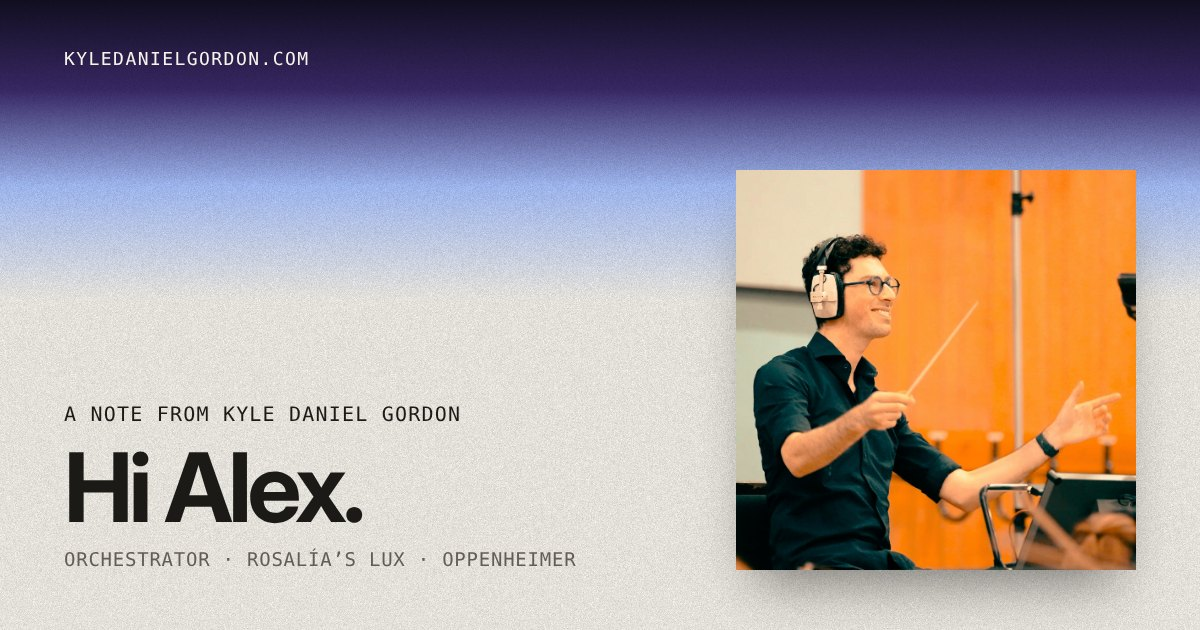
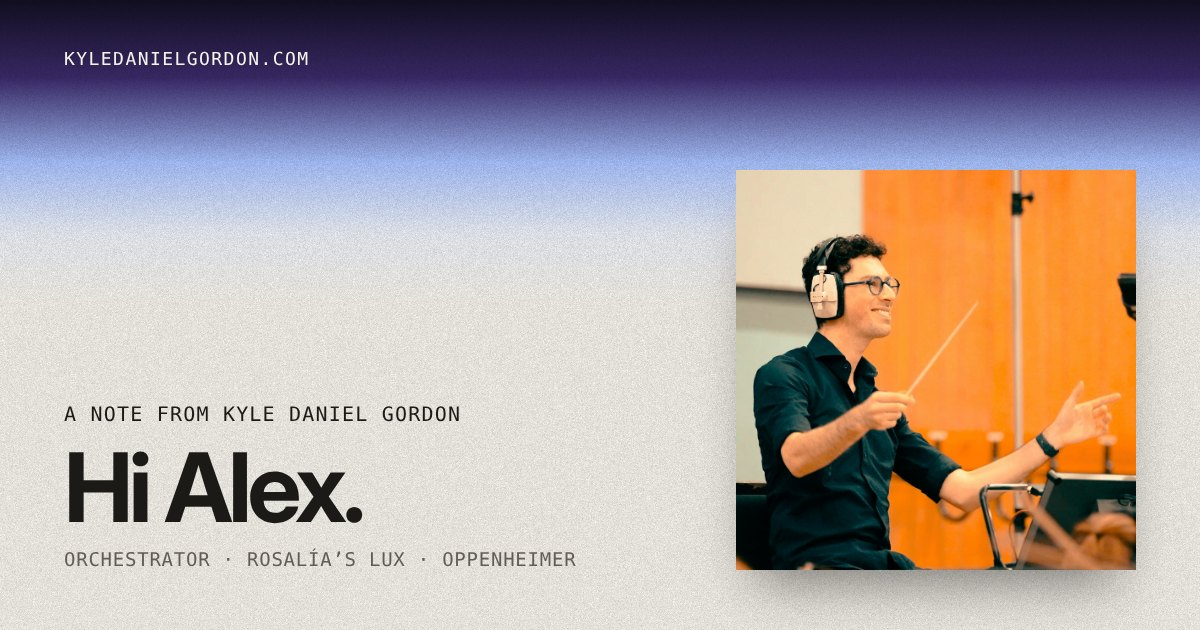
Share cards always match their page: gradients read from each page's header (og_grads.json), cards redrawn on every build, new cards for press, es/prensa, contact, LA, guide, privacy, es/rosalia-lux
Claude-Session: https://claude.ai/code/session_01J4kEb8i43ScNqshKGYvctF

Claude-Session: https://claude.ai/code/session_01J4kEb8i43ScNqshKGYvctF

Changed region(s): [[0.0, 0.1508, 1.0, 0.4222]]

diff --git a/public/what-does-an-orchestrator-do/index.html b/public/what-does-an-orchestrator-do/index.html
@@ -27,11 +27,11 @@
 <meta content="What Does an Orchestrator Do? A Guide by Kyle Daniel Gordon" property="og:title"/>
 <meta content="What an orchestrator does on a film score and a pop record, how it differs from arranging and composing, and how to hire one. By orchestrator Kyle Daniel Gordon." property="og:description"/>
 <meta content="https://www.kyledanielgordon.com/what-does-an-orchestrator-do/" property="og:url"/>
-<meta content="https://www.kyledanielgordon.com/img/share-home-kyle-daniel-gordon.jpg?v=3" property="og:image"/>
+<meta content="https://www.kyledanielgordon.com/img/share-what-does-an-orchestrator-do-kyle-daniel-gordon.jpg?v=5" property="og:image"/>
 <meta content="summary_large_image" name="twitter:card"/>
 <meta content="What Does an Orchestrator Do? A Guide by Kyle Daniel Gordon" name="twitter:title"/>
 <meta content="What an orchestrator does on a film score and a pop record, how it differs from arranging and composing, and how to hire one. By orchestrator Kyle Daniel Gordon." name="twitter:description"/>
-<meta content="https://www.kyledanielgordon.com/img/share-home-kyle-daniel-gordon.jpg?v=3" name="twitter:image"/>
+<meta content="https://www.kyledanielgordon.com/img/share-what-does-an-orchestrator-do-kyle-daniel-gordon.jpg?v=5" name="twitter:image"/>
 <meta content="#f7f4ec" name="theme-color"/>
 <link href="/favicon.svg?v=2" rel="icon" type="image/svg+xml"/>
 <link href="/favicon-48.png?v=2" rel="icon" sizes="48x48" type="image/png"/>
@@ -170,7 +170,7 @@
     "Film scoring",
     "String arrangements"
    ],
-   "image": "https://www.kyledanielgordon.com/img/share-home-kyle-daniel-gordon.jpg?v=3"
+   "image": "https://www.kyledanielgordon.com/img/share-home-kyle-daniel-gordon.jpg?v=5"
   }
  ]
 }

diff --git a/public/work/baby-shark-london-symphony-orchestra/index.html b/public/work/baby-shark-london-symphony-orchestra/index.html
@@ -27,11 +27,11 @@
 <meta content="Baby Shark × London Symphony Orchestra: Arranger &amp; Conductor Kyle Daniel Gordon" property="og:title"/>
 <meta content="Kyle Daniel Gordon arranged and conducted the London Symphony Orchestra version of Baby Shark for its 10th anniversary, recorded at LSO St Luke’s, plus the Bebefinn Medley." property="og:description"/>
 <meta content="https://www.kyledanielgordon.com/work/baby-shark-london-symphony-orchestra/" property="og:url"/>
-<meta content="https://www.kyledanielgordon.com/img/share-baby-shark-london-symphony-orchestra-kyle-daniel-gordon.jpg?v=3" property="og:image"/>
+<meta content="https://www.kyledanielgordon.com/img/share-baby-shark-london-symphony-orchestra-kyle-daniel-gordon.jpg?v=5" property="og:image"/>
 <meta content="summary_large_image" name="twitter:card"/>
 <meta content="Baby Shark × London Symphony Orchestra: Arranger &amp; Conductor Kyle Daniel Gordon" name="twitter:title"/>
 <meta content="Kyle Daniel Gordon arranged and conducted the London Symphony Orchestra version of Baby Shark for its 10th anniversary, recorded at LSO St Luke’s, plus the Bebefinn Medley." name="twitter:description"/>
-<meta content="https://www.kyledanielgordon.com/img/share-baby-shark-london-symphony-orchestra-kyle-daniel-gordon.jpg?v=3" name="twitter:image"/>
+<meta content="https://www.kyledanielgordon.com/img/share-baby-shark-london-symphony-orchestra-kyle-daniel-gordon.jpg?v=5" name="twitter:image"/>
 <meta content="#f7f4ec" name="theme-color"/>
 <link href="/favicon.svg?v=2" rel="icon" type="image/svg+xml"/>
 <link href="/favicon-48.png?v=2" rel="icon" sizes="48x48" type="image/png"/>

diff --git a/public/work/grace-kelly-with-strings-at-the-movies/index.html b/public/work/grace-kelly-with-strings-at-the-movies/index.html
@@ -27,11 +27,11 @@
 <meta content="Grace Kelly with Strings: At The Movies, Arranger Kyle Daniel Gordon" property="og:title"/>
 <meta content="Kyle Daniel Gordon was arranger, orchestrator and co-producer on saxophonist Grace Kelly’s film-music album with strings (2024): Morricone, E.T., James Bond, Disney." property="og:description"/>
 <meta content="https://www.kyledanielgordon.com/work/grace-kelly-with-strings-at-the-movies/" property="og:url"/>
-<meta content="https://www.kyledanielgordon.com/img/share-grace-kelly-with-strings-at-the-movies-kyle-daniel-gordon.jpg?v=3" property="og:image"/>
+<meta content="https://www.kyledanielgordon.com/img/share-grace-kelly-with-strings-at-the-movies-kyle-daniel-gordon.jpg?v=5" property="og:image"/>
 <meta content="summary_large_image" name="twitter:card"/>
 <meta content="Grace Kelly with Strings: At The Movies, Arranger Kyle Daniel Gordon" name="twitter:title"/>
 <meta content="Kyle Daniel Gordon was arranger, orchestrator and co-producer on saxophonist Grace Kelly’s film-music album with strings (2024): Morricone, E.T., James Bond, Disney." name="twitter:description"/>
-<meta content="https://www.kyledanielgordon.com/img/share-grace-kelly-with-strings-at-the-movies-kyle-daniel-gordon.jpg?v=3" name="twitter:image"/>
+<meta content="https://www.kyledanielgordon.com/img/share-grace-kelly-with-strings-at-the-movies-kyle-daniel-gordon.jpg?v=5" name="twitter:image"/>
 <meta content="#f7f4ec" name="theme-color"/>
 <link href="/favicon.svg?v=2" rel="icon" type="image/svg+xml"/>
 <link href="/favicon-48.png?v=2" rel="icon" sizes="48x48" type="image/png"/>

diff --git a/public/work/mollie-elizabeth-people-pleaser/index.html b/public/work/mollie-elizabeth-people-pleaser/index.html
@@ -27,11 +27,11 @@
 <meta content="Mollie Elizabeth, People Pleaser: Arranger &amp; Conductor Kyle Daniel Gordon" property="og:title"/>
 <meta content="Kyle Daniel Gordon arranged, orchestrated, score-produced and conducted Mollie Elizabeth’s People Pleaser EP (Capitol Records, 2026), and plays upright bass and music box." property="og:description"/>
 <meta content="https://www.kyledanielgordon.com/work/mollie-elizabeth-people-pleaser/" property="og:url"/>
-<meta content="https://www.kyledanielgordon.com/img/share-mollie-elizabeth-people-pleaser-kyle-daniel-gordon.jpg?v=3" property="og:image"/>
+<meta content="https://www.kyledanielgordon.com/img/share-mollie-elizabeth-people-pleaser-kyle-daniel-gordon.jpg?v=5" property="og:image"/>
 <meta content="summary_large_image" name="twitter:card"/>
 <meta content="Mollie Elizabeth, People Pleaser: Arranger &amp; Conductor Kyle Daniel Gordon" name="twitter:title"/>
 <meta content="Kyle Daniel Gordon arranged, orchestrated, score-produced and conducted Mollie Elizabeth’s People Pleaser EP (Capitol Records, 2026), and plays upright bass and music box." name="twitter:description"/>
-<meta content="https://www.kyledanielgordon.com/img/share-mollie-elizabeth-people-pleaser-kyle-daniel-gordon.jpg?v=3" name="twitter:image"/>
+<meta content="https://www.kyledanielgordon.com/img/share-mollie-elizabeth-people-pleaser-kyle-daniel-gordon.jpg?v=5" name="twitter:image"/>
 <meta content="#f7f4ec" name="theme-color"/>
 <link href="/favicon.svg?v=2" rel="icon" type="image/svg+xml"/>
 <link href="/favicon-48.png?v=2" rel="icon" sizes="48x48" type="image/png"/>

diff --git a/public/work/david-friesen-this-light-has-no-darkness/index.html b/public/work/david-friesen-this-light-has-no-darkness/index.html
@@ -27,11 +27,11 @@
 <meta content="David Friesen, This Light Has No Darkness: Orchestrated by Kyle Daniel Gordon" property="og:title"/>
 <meta content="Bassist David Friesen’s 12-part suite, arranged and orchestrated by Kyle Daniel Gordon for 33-piece chamber orchestra. Origin Records, 2024." property="og:description"/>
 <meta content="https://www.kyledanielgordon.com/work/david-friesen-this-light-has-no-darkness/" property="og:url"/>
-<meta content="https://www.kyledanielgordon.com/img/share-david-friesen-this-light-has-no-darkness-kyle-daniel-gordon.jpg?v=3" property="og:image"/>
+<meta content="https://www.kyledanielgordon.com/img/share-david-friesen-this-light-has-no-darkness-kyle-daniel-gordon.jpg?v=5" property="og:image"/>
 <meta content="summary_large_image" name="twitter:card"/>
 <meta content="David Friesen, This Light Has No Darkness: Orchestrated by Kyle Daniel Gordon" name="twitter:title"/>
 <meta content="Bassist David Friesen’s 12-part suite, arranged and orchestrated by Kyle Daniel Gordon for 33-piece chamber orchestra. Origin Records, 2024." name="twitter:description"/>
-<meta content="https://www.kyledanielgordon.com/img/share-david-friesen-this-light-has-no-darkness-kyle-daniel-gordon.jpg?v=3" name="twitter:image"/>
+<meta content="https://www.kyledanielgordon.com/img/share-david-friesen-this-light-has-no-darkness-kyle-daniel-gordon.jpg?v=5" name="twitter:image"/>
 <meta content="#f7f4ec" name="theme-color"/>
 <link href="/favicon.svg?v=2" rel="icon" type="image/svg+xml"/>
 <link href="/favicon-48.png?v=2" rel="icon" sizes="48x48" type="image/png"/>

diff --git a/public/work/romani-the-untold-story/index.html b/public/work/romani-the-untold-story/index.html
@@ -27,11 +27,11 @@
 <meta content="Romani: The Untold Story, Ion Zanca &amp; LSO: Kyle Daniel Gordon" property="og:title"/>
 <meta content="Kyle Daniel Gordon arranged, orchestrated and conducted Romani: The Untold Story, Ion Zanca’s No. 1 Billboard Classical album with the Dallas String Quartet and the London Symphony Orchestra." property="og:description"/>
 <meta content="https://www.kyledanielgordon.com/work/romani-the-untold-story/" property="og:url"/>
-<meta content="https://www.kyledanielgordon.com/img/share-romani-the-untold-story-kyle-daniel-gordon.jpg?v=3" property="og:image"/>
+<meta content="https://www.kyledanielgordon.com/img/share-romani-the-untold-story-kyle-daniel-gordon.jpg?v=5" property="og:image"/>
 <meta content="summary_large_image" name="twitter:card"/>
 <meta content="Romani: The Untold Story, Ion Zanca &amp; LSO: Kyle Daniel Gordon" name="twitter:title"/>
 <meta content="Kyle Daniel Gordon arranged, orchestrated and conducted Romani: The Untold Story, Ion Zanca’s No. 1 Billboard Classical album with the Dallas String Quartet and the London Symphony Orchestra." name="twitter:description"/>
-<meta content="https://www.kyledanielgordon.com/img/share-romani-the-untold-story-kyle-daniel-gordon.jpg?v=3" name="twitter:image"/>
+<meta content="https://www.kyledanielgordon.com/img/share-romani-the-untold-story-kyle-daniel-gordon.jpg?v=5" name="twitter:image"/>
 <meta content="#f7f4ec" name="theme-color"/>
 <link href="/favicon.svg?v=2" rel="icon" type="image/svg+xml"/>
 <link href="/favicon-48.png?v=2" rel="icon" sizes="48x48" type="image/png"/>

diff --git a/public/es/prensa/index.html b/public/es/prensa/index.html
@@ -27,11 +27,11 @@
 <meta content="Sala de prensa: Kyle Daniel Gordon, orquestador de LUX de Rosalía" property="og:title"/>
 <meta content="Biografías, fotos, citas y datos de Kyle Daniel Gordon, orquestador principal de LUX de Rosalía, grabado con la Orquesta Sinfónica de Londres. Material libre para prensa." property="og:description"/>
 <meta content="https://www.kyledanielgordon.com/es/prensa/" property="og:url"/>
-<meta content="https://www.kyledanielgordon.com/img/share-home-kyle-daniel-gordon.jpg?v=3" property="og:image"/>
+<meta content="https://www.kyledanielgordon.com/img/share-es-prensa-kyle-daniel-gordon.jpg?v=5" property="og:image"/>
 <meta content="summary_large_image" name="twitter:card"/>
 <meta content="Sala de prensa: Kyle Daniel Gordon, orquestador de LUX de Rosalía" name="twitter:title"/>
 <meta content="Biografías, fotos, citas y datos de Kyle Daniel Gordon, orquestador principal de LUX de Rosalía, grabado con la Orquesta Sinfónica de Londres. Material libre para prensa." name="twitter:description"/>
-<meta content="https://www.kyledanielgordon.com/img/share-home-kyle-daniel-gordon.jpg?v=3" name="twitter:image"/>
+<meta content="https://www.kyledanielgordon.com/img/share-es-prensa-kyle-daniel-gordon.jpg?v=5" name="twitter:image"/>
 <meta content="#f7f4ec" name="theme-color"/>
 <link href="/favicon.svg?v=2" rel="icon" type="image/svg+xml"/>
 <link href="/favicon-48.png?v=2" rel="icon" sizes="48x48" type="image/png"/>

diff --git a/public/es/rosalia-lux/index.html b/public/es/rosalia-lux/index.html
@@ -27,11 +27,11 @@
 <meta content="Rosalía, LUX: orquestaciones de Kyle Daniel Gordon" property="og:title"/>
 <meta content="Kyle Daniel Gordon fue el orquestador principal de LUX de Rosalía, grabado con la Orquesta Sinfónica de Londres. Seis Latin Grammy; nominado al Grammy a Álbum del Año." property="og:description"/>
 <meta content="https://www.kyledanielgordon.com/es/rosalia-lux/" property="og:url"/>
-<meta content="https://www.kyledanielgordon.com/img/share-rosalia-lux-kyle-daniel-gordon.jpg?v=3" property="og:image"/>
+<meta content="https://www.kyledanielgordon.com/img/share-es-rosalia-lux-kyle-daniel-gordon.jpg?v=5" property="og:image"/>
 <meta content="summary_large_image" name="twitter:card"/>
 <meta content="Rosalía, LUX: orquestaciones de Kyle Daniel Gordon" name="twitter:title"/>
 <meta content="Kyle Daniel Gordon fue el orquestador principal de LUX de Rosalía, grabado con la Orquesta Sinfónica de Londres. Seis Latin Grammy; nominado al Grammy a Álbum del Año." name="twitter:description"/>
-<meta content="https://www.kyledanielgordon.com/img/share-rosalia-lux-kyle-daniel-gordon.jpg?v=3" name="twitter:image"/>
+<meta content="https://www.kyledanielgordon.com/img/share-es-rosalia-lux-kyle-daniel-gordon.jpg?v=5" name="twitter:image"/>
 <meta content="#f7f4ec" name="theme-color"/>
 <link href="/favicon.svg?v=2" rel="icon" type="image/svg+xml"/>
 <link href="/favicon-48.png?v=2" rel="icon" sizes="48x48" type="image/png"/>

diff --git a/public/orchestrator-los-angeles/index.html b/public/orchestrator-los-angeles/index.html
@@ -27,11 +27,11 @@
 <meta content="Orchestrator in Los Angeles: Kyle Daniel Gordon" property="og:title"/>
 <meta content="Los Angeles orchestrator, arranger and conductor for film, TV and records: Rosalía’s LUX, Oppenheimer, Frozen II, Star Wars. Orchestration, strings, score prep." property="og:description"/>
 <meta content="https://www.kyledanielgordon.com/orchestrator-los-angeles/" property="og:url"/>
-<meta content="https://www.kyledanielgordon.com/img/share-home-kyle-daniel-gordon.jpg?v=3" property="og:image"/>
+<meta content="https://www.kyledanielgordon.com/img/share-orchestrator-los-angeles-kyle-daniel-gordon.jpg?v=5" property="og:image"/>
 <meta content="summary_large_image" name="twitter:card"/>
 <meta content="Orchestrator in Los Angeles: Kyle Daniel Gordon" name="twitter:title"/>
 <meta content="Los Angeles orchestrator, arranger and conductor for film, TV and records: Rosalía’s LUX, Oppenheimer, Frozen II, Star Wars. Orchestration, strings, score prep." name="twitter:description"/>
-<meta content="https://www.kyledanielgordon.com/img/share-home-kyle-daniel-gordon.jpg?v=3" name="twitter:image"/>
+<meta content="https://www.kyledanielgordon.com/img/share-orchestrator-los-angeles-kyle-daniel-gordon.jpg?v=5" name="twitter:image"/>
 <meta content="#f7f4ec" name="theme-color"/>
 <link href="/favicon.svg?v=2" rel="icon" type="image/svg+xml"/>
 <link href="/favicon-48.png?v=2" rel="icon" sizes="48x48" type="image/png"/>

diff --git a/public/work/rosalia-lux/index.html b/public/work/rosalia-lux/index.html
@@ -27,11 +27,11 @@
 <meta content="Rosalía LUX Orchestrations, Kyle Daniel Gordon" property="og:title"/>
 <meta content="Kyle Daniel Gordon orchestrated Rosalía’s LUX, recorded with the London Symphony Orchestra at AIR Studios. Six Latin Grammys; Grammy Album of the Year nominee." property="og:description"/>
 <meta content="https://www.kyledanielgordon.com/work/rosalia-lux/" property="og:url"/>
-<meta content="https://www.kyledanielgordon.com/img/share-rosalia-lux-kyle-daniel-gordon.jpg?v=3" property="og:image"/>
+<meta content="https://www.kyledanielgordon.com/img/share-rosalia-lux-kyle-daniel-gordon.jpg?v=5" property="og:image"/>
 <meta content="summary_large_image" name="twitter:card"/>
 <meta content="Rosalía LUX Orchestrations, Kyle Daniel Gordon" name="twitter:title"/>
 <meta content="Kyle Daniel Gordon orchestrated Rosalía’s LUX, recorded with the London Symphony Orchestra at AIR Studios. Six Latin Grammys; Grammy Album of the Year nominee." name="twitter:description"/>
-<meta content="https://www.kyledanielgordon.com/img/share-rosalia-lux-kyle-daniel-gordon.jpg?v=3" name="twitter:image"/>
+<meta content="https://www.kyledanielgordon.com/img/share-rosalia-lux-kyle-daniel-gordon.jpg?v=5" name="twitter:image"/>
 <meta content="#f7f4ec" name="theme-color"/>
 <link href="/favicon.svg?v=2" rel="icon" type="image/svg+xml"/>
 <link href="/favicon-48.png?v=2" rel="icon" sizes="48x48" type="image/png"/>

diff --git a/public/live/index.html b/public/live/index.html
@@ -27,11 +27,11 @@
 <meta content="BBC Proms Arranger and Organist, Kyle Daniel Gordon" property="og:title"/>
 <meta content="Arranger and organist at the BBC Proms: Bond and Beyond (Radiohead’s “Spectre”), Soul Revolution, Marvin Gaye. The Little Bird premiered by the San Francisco Symphony." property="og:description"/>
 <meta content="https://www.kyledanielgordon.com/live/" property="og:url"/>
-<meta content="https://www.kyledanielgordon.com/img/share-live-kyle-daniel-gordon.jpg?v=3" property="og:image"/>
+<meta content="https://www.kyledanielgordon.com/img/share-live-kyle-daniel-gordon.jpg?v=5" property="og:image"/>
 <meta content="summary_large_image" name="twitter:card"/>
 <meta content="BBC Proms Arranger and Organist, Kyle Daniel Gordon" name="twitter:title"/>
 <meta content="Arranger and organist at the BBC Proms: Bond and Beyond (Radiohead’s “Spectre”), Soul Revolution, Marvin Gaye. The Little Bird premiered by the San Francisco Symphony." name="twitter:description"/>
-<meta content="https://www.kyledanielgordon.com/img/share-live-kyle-daniel-gordon.jpg?v=3" name="twitter:image"/>
+<meta content="https://www.kyledanielgordon.com/img/share-live-kyle-daniel-gordon.jpg?v=5" name="twitter:image"/>
 <meta content="#f7f4ec" name="theme-color"/>
 <link href="/favicon.svg?v=2" rel="icon" type="image/svg+xml"/>
 <link href="/favicon-48.png?v=2" rel="icon" sizes="48x48" type="image/png"/>

diff --git a/public/work/ariza-magia-en-dos/index.html b/public/work/ariza-magia-en-dos/index.html
@@ -27,11 +27,11 @@
 <meta content="Ariza, Magia en Dos: Orchestrator Kyle Daniel Gordon" property="og:title"/>
 <meta content="Kyle Daniel Gordon orchestrated Ariza’s 2025 album Magia en Dos, with Morat, Juliana, nic and ROBI. Orquestador: Kyle Daniel Gordon." property="og:description"/>
 <meta content="https://www.kyledanielgordon.com/work/ariza-magia-en-dos/" property="og:url"/>
-<meta content="https://www.kyledanielgordon.com/img/share-ariza-magia-en-dos-kyle-daniel-gordon.jpg?v=3" property="og:image"/>
+<meta content="https://www.kyledanielgordon.com/img/share-ariza-magia-en-dos-kyle-daniel-gordon.jpg?v=5" property="og:image"/>
 <meta content="summary_large_image" name="twitter:card"/>
 <meta content="Ariza, Magia en Dos: Orchestrator Kyle Daniel Gordon" name="twitter:title"/>
 <meta content="Kyle Daniel Gordon orchestrated Ariza’s 2025 album Magia en Dos, with Morat, Juliana, nic and ROBI. Orquestador: Kyle Daniel Gordon." name="twitter:description"/>
-<meta content="https://www.kyledanielgordon.com/img/share-ariza-magia-en-dos-kyle-daniel-gordon.jpg?v=3" name="twitter:image"/>
+<meta content="https://www.kyledanielgordon.com/img/share-ariza-magia-en-dos-kyle-daniel-gordon.jpg?v=5" name="twitter:image"/>
 <meta content="#f7f4ec" name="theme-color"/>
 <link href="/favicon.svg?v=2" rel="icon" type="image/svg+xml"/>
 <link href="/favicon-48.png?v=2" rel="icon" sizes="48x48" type="image/png"/>
